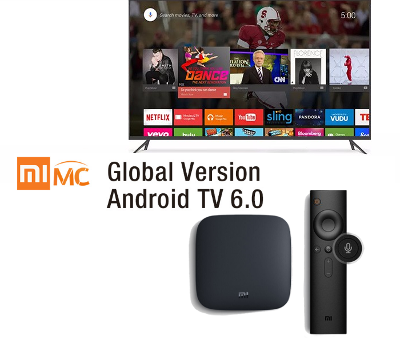
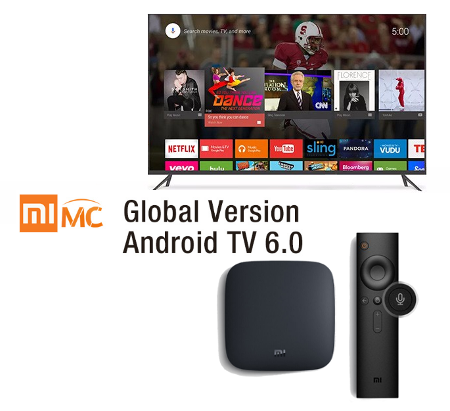
added text, images to tv-box.html

diff --git a/tv-box.html b/tv-box.html
@@ -1,7 +1,7 @@
 <!doctype html>
 <html>
 <head>
-    <title>Junsun7" - видеорегистратор</title>
+    <title>TV приставка - Mi Box 3</title>
     <meta charset="utf-8">
     <link rel="stylesheet" href="style.css">
     <link rel="stylesheet" href="https://maxcdn.bootstrapcdn.com/bootstrap/3.3.7/css/bootstrap.min.css" integrity="sha384-BVYiiSIFeK1dGmJRAkycuHAHRg32OmUcww7on3RYdg4Va+PmSTsz/K68vbdEjh4u" crossorigin="anonymous">
@@ -77,29 +77,30 @@
     </nav>
     <div class="container">
         <hr>
-        <a name="registrator">
+        <a name="box">
             <h1 class="anchor-hack">
-                3G Видеорегистратор Junsun 7" - Android 5.0 GPS Bluetooth
+                ТВ приставка - Xiaomi Mi Box 3
             </h1>
         </a>
         <div class="row">
             <div class="col-xs-12 col-md-5">
-                <a href="images/dvr/dvr.jpg" target="_blank">
-                    <img src="images/dvr/dvr.jpg" style="width:100%" alt="dvr">
+                <a href="images/box/start.png" target="_blank">
+                    <img src="images/box/start.png" style="width:100%" alt="start">
                 </a>
             </div>
             <div class="col-xs-12 col-md-7">
                 <p>
-                    Регистраторы под маркой Junsun на последнее время оказались самыми популярными и качественными, с множеством положительных отзывов. Хорошие технические составляющие, приемлемая цена. И если стоит вопрос о покупке видеорегистратора на Алиэксресс, то Junsun7"
-                    3G Android 5.0 - один из лучших и первый кандидат на ваше внимание.
+                    Благодаря системе андроид тв, смарт приставка может подключаться к You Tube, Google Play Movies, Ivi, Netflix и т. д., может
+                    устанавливать приложения Google Play. Музыка, игры, ваши фотографии - все возможно. Доступно большинство функций смартфона или
+                    компьютера, но на большом экране телевизора
                 </p>
                 <div class="container-fluid">
                     <div class="row">
                         <div class="col-md-6">
-                            <h3>Цена: 6 610,53 - 7 244,71 руб./шт.*</h3>
+                            <h3>Цена: 4 287,27 - 4 532,29 руб./шт.*</h3>
                         </div>
                         <div class="col-md-6">
-                            <a href="http://ali.pub/1eu3ad" rel="nofollow" style="margin-left: 1em; margin-right: 1em;" target="_blank">
+                            <a href="http://ali.pub/1lbw9p" rel="nofollow" style="margin-left: 1em; margin-right: 1em;" target="_blank">
                                 <img src="images/button_buy.png">
                             </a>
                         </div>
@@ -116,223 +117,143 @@
                     <tbody>
                         <tr>
                             <td>Производитель:</td>
-                            <td>Junsun</td>
+                            <td>Xiaomi</td>
+                        <tr>
+                            <td>Модель:</td>
+                            <td>Xiaomi Mi Box 3</td>
                         </tr>
                         <tr>
-                            <td>Тип изделия:</td>
-                            <td>Автомобильный видеорегистратор</td>
+                            <td>Дистанционное управление:</td>
+                            <td>Bluetooth-пульт с микрофоном</td>
                         </tr>
                         <tr>
-                            <td>Язык меню:</td>
-                            <td>Русский, Турецкий, Испанский, Французский ...</td>
+                            <td>OS:</td>
+                            <td>Google Android TV 6.0</td>
                         </tr>
                         <tr>
-                            <td>Аккумулятор:</td>
-                            <td>встроенный</td>
+                            <td>RAM:</td>
+                            <td>Original 2GB DDR3</td>
                         </tr>
                         <tr>
-                            <td>Особенности:</td>
-                            <td>SD/MMC, В реальном времени видеонаблюдение...</td>
+                            <td>ROM:</td>
+                            <td>8GB eMMC Flash</td>
                         </tr>
                         <tr>
-                            <td>Количество линз:</td>
-                            <td>2</td>
+                            <td>Процессор:</td>
+                            <td>ARM Cortex A53 up to 2GHz Quad-core 64-bits</td>
                         </tr>
                         <tr>
-                            <td>Формат видео:</td>
-                            <td>MPEG-4</td>
+                            <td>Графика:</td>
+                            <td>Penta-core ARM Mali-450</td>
                         </tr>
                         <tr>
-                            <td>Соотношение сторон экрана:</td>
-                            <td>16:9</td>
+                            <td>HDR:</td>
+                            <td>4K</td>
                         </tr>
                         <tr>
-                            <td><span>Макс внешней памяти:</span></td>
-                            <td>32GB</td>
+                            <td>System Upgrade:</td>
+                            <td>да</td>
                         </tr>
                         <tr>
-                            <td><span>Кадров в секунду:</span></td>
-                            <td>30</td>
+                            <td>Software Support:</td>
+                            <td>OTA update ,Youtube , Kodi , Hulu , Netflix etc</td>
                         </tr>
                         <tr>
-                            <td><span>Сенсорный экран:</span></td>
-                            <td>Да</td>
+                            <td>Google cast:</td>
+                            <td>да</td>
                         </tr>
                         <tr>
-                            <td><span>Угол обзора:</span></td>
-                            <td>160°</td>
+                            <td>Multi Language:</td>
+                            <td>да</td>
                         </tr>
                         <tr>
-                            <td>GPS-трекер:</td>
-                            <td>Внешний</td>
-                        </tr>
-                        <tr>
-                            <td>Пиксели:</td>
-                            <td>500 мега</td>
-                        </tr>
-                        <tr>
-                            <td>Скорость чтения карты памяти:</td>
-                            <td>Class 6</td>
-                        </tr>
-                        <tr>
-                            <td>Разрешение камеры:</td>
-                            <td>1920x1080</td>
-                        </tr>
-                        <tr>
-                            <td><span>Размер дисплея:</span></td>
-                            <td>7 дюймов</td>
-                        </tr>
-                        <tr>
-                            <td>Видео-Код:</td>
-                            <td>&nbsp;AVC</td>
-                        </tr>
-                        <tr>
-                            <td>Производитель чипсета:</td>
-                            <td>MT6582</td>
-                        </tr>
-                        <tr>
-                            <td><span>GPS Navigation:</span></td>
-                            <td>Car GPS Navigation maps Permanent free upd...</td>
-                        </tr>
-                        <tr>
-                            <td>FM transmitter:</td>
-                            <td>you could synchronize the mirror dvr music to ...</td>
-                        </tr>
-                        <tr>
-                            <td><span>Dual lens:</span></td>
-                            <td>Yes,Support Dual lens recording simultaneously&nbsp;</td>
-                        </tr>
-                        <tr>
-                            <td>DVR functionality</td>
-                            <td>Full HD 1080P Video&nbsp;</td>
-                        </tr>
-                        <tr>
-                            <td>3G:</td>
-                            <td>WCDMA 850/2100</td>
-                        </tr>
-                        <tr>
-                            <td>Операционная система:</td>
-                            <td>Android 5.0 Lollipop systems</td>
-                        </tr>
-                        <tr>
-                            <td>Chips:</td>
-                            <td>MTK6582 Quad core</td>
-                        </tr>
-                        <tr>
-                            <td>RAM / ROM:</td>
-                            <td>RAM 1GB / ROM 16GB (System will occupy 3GB)</td>
-                        </tr>
-                        <tr>
-                            <td>Touch screen:</td>
-                            <td>7"Capacitive Touch screen 1280*480</td>
-                        </tr>
-                        <tr>
-                            <td>Imaging Sensor:</td>
-                            <td>After The Loading Machine Integrated</td>
+                            <td>Упаковка:</td>
+                            <td>да</td>
                         </tr>
                     </tbody>
                 </table>
-                <h2>Размеры dvr и что где находится</h2>
-                <img src="images/dvr/size.jpg" class="center" style="width:80%" alt="size">
-                <h2>А теперь рассмотрим особенности Junsun 7" в картинках</h2>
+                <h2>Рассмотрим всё</h2>
+                <p>
+                    Приставка Xiaomi Mi Box 3 работает под управлением чипсета AMlogic S905: 64-битный 4-ядерный процессор
+                    Cortex-A53 с частотой 2 ГГц, 28 нм, графика Mali-450. Работает быстро, плавно, никаких задержек, что очень
+                    радует. По оценкам и по количеству покупок - это лучшая тв приставка для комфортного просмотра видеоконтента
+                    через интернет
+                </p>
+                <img src="images/box/details.jpg" class="center" style="width:80%" alt="details">
                 <h3>
-                    <span class="my_span">3G-серфинг. Сеть в любое время и в любом месте</span>
+                    <span class="my_span">Внешний вид</span>
                 </h3>
                 <p>
-                    Поддержка сети 2G GSM (1900/1800/850/900); 3G WCDMA B1 (2100)/B5 (850). Просто вставьте сим-карту
+                    Обтекаемая форма со сглаженным углами, из полуматового пластика.  На нижней стороне небольшой
+                    прорезиненный пьедестал, что обеспечивает хорошую устойчивость на поверхности. Порты и разъемы
+                    сзади: питание, USB, HDMI, Audio. Впереди - индикатор работы тв бокса.
                 </p>
-                <img src="images/dvr/3G.jpg" class="center" style="width:80%" alt="3G">
-                <h3>
-                    <span class="my_span">Full HD 1080P видео</span>
-                </h3>
+                <img src="images/box/interface.jpg" class="center" style="width:80%" alt="interface">
                 <p>
-                    Более высокое качество изображения поможет при необходимости уточнить важные детали, номерные знаки, дорожные особенности, которые в итоге помогут доказать вашу невиновность
-                </p>
-                <img src="images/dvr/video.jpg" class="center" style="width:80%" alt="video">
-                <h3>
-                    <span class="my_span">Запись с двух объективов. Сплит экран</span>
-                </h3>
-                <p>
-                    Автомобильный видеорегистратор имеет две камеры и записывает видео с двух разных углов. Такой дисплей называют - сплит или разделенный
-                </p>
-                <img src="images/dvr/split-screen.jpg" class="center" style="width:80%" alt="split-screen">
-                <h3>
-                    <span class="my_span">Камера заднего вида</span>
-                </h3>
-                <p>
-                    Когда автомобиль делает задний ход, DVR автоматически переключается на камеру заднего вида, с изображением линии парковки
-                </p>
-                <img src="images/dvr/rear-view-camera.jpg" class="center" style="width:80%" alt="rear-view-camera">
-
-                <img src="images/dvr/rear-view-camera2.jpg" class="center" style="width:80%" alt="rear-view-camera2">
-                <h3>
-                    <span class="my_span">GPS-навигация</span>
-                </h3>
-                <p>
-                    GPS-навигация работает быстро и плавно благодаря наличию GPS антенны и 3G функции сети
-                </p>
-                <img src="images/dvr/GPS.jpg" class="center" style="width:80%" alt="GPS">
-                <p>
-                    <b>Подробные карты с бесплатными обновлениями</b><br> Красивые 3D ориентиры зданий, парков, гор помогут вам найти правильный путь в незнакомой местности. Вождение с Sygic GPS навигацией будет удобным и комфортным
-                </p>
-                <p>
-                    <b>Точное расстояние</b> до каждого маневра будет направлять вас к месту назначения. Если вы пропустите нужный поворот, будет произведен перерасчет и система поставит вас на верный путь
-                </p>
-                <p>
-                    <b>Легкая ориентация в сложных развязках</b><br> Junsun GPS-навигация использует яркие стрелки показывая правильные переходы, чтобы легко ориентироваться в сложных развязках
-                </p>
-                <p>
-                    <b>Подробная информация всегда на виду</b><br> Карта все время находится на экране, дополнительная информация появляется рядом. То что находится по ходу маршрута: АЗС, больницы и т.д.
-                </p>
-                <p>
-                    <b>Про установку карты</b><br> Поддержка Европа/Северная Америка/Южная Америка/Азия/Ближний Восток (карта будет установлена согласно вашему адресу)
-                </p>
-                <p>
-                    <i>Примечание.</i> Если вы хотите обновить карту, пожалуйста, свяжитесь с нами, мы загрузим "Drop box". Не загружайте в других местах, это может повредить оригинальную карту. Обновление: один раз в год
+                    В комплекте есть Bluetooth-пульт с микрофоном, поэтому приставкой можно управлять голосом.
+                    А так же использовать в качестве джойстика в играх.
                 </p>
                 <h3>
-                    <span class="my_span">7&#34 сенсорный экран</span>
+                    <span class="my_span">Пульт дистанционного управления с поддержкой Bluetooth и голосовым поиском</span>
+                </h3>
+                <div class="row">
+                    <div class="col-xs-12 col-md-6">
+                        <p>
+                            <ul>
+                                <li>Слева наверху - кнопка включение/выключение</li>
+                                <li>Ниже - круговой джойстик с 4 кнопками и центральной -"OK"</li>
+                                <li>Кнопка стрелка влево -  "назад"</li>
+                                <li>Круг - "домой"</li>
+                                <li>Голосовой ввод</li>
+                                <li>Регулировка громкости</li>
+                                <li>На верхнем торце - микрофон</li>
+                            </ul>
+                        </p>
+                    </div>
+                    <div class="col-xs-12 col-md-6">
+                        <img src="images/box/remote-controller.jpg" class="center" style="width:80%" alt="remote-controller">
+                    </div>
+                </div>
+                <h3>
+                    <span class="my_span">Разнообразие приложений</span>
                 </h3>
                 <p>
-                    Экран идеально подходит для просмотра HD фильмов, веб-страниц, подробно можно рассмотреть карты, графики. Даже можно играть в игры
+                    С воспроизведением видео все в порядке, Xiaomi Mi Box 3 проигрывает почти все форматы и кодеки,
+                    но для этого все равно придется установить видеопроигрыватель (по умолчанию тв приставка не оборудована плеером).
+                    Отлично идут ролики до 4К при 60 FPS и от MKV до ISO, H264/H265, поддерживается HDR, звук Dolby Digital
+                    Plus и DTS. ТВ бокс может выступать в роли Google Cast.
                 </p>
-                <img src="images/dvr/touch-screen.jpg" class="center" style="width:80%" alt="touch-screen">
-                <h3>
-                    <span class="my_span">Android 5.0 системы, Quad Core CPU</span>
-                </h3>
                 <p>
-                    Процессор с высокой производительностью MT6582 Quad core 1.3 ГГЦ и Android 5.0 Lollipop (Леденец) позволяют автомобильному видеорегистратору работать более быстро и плавно по сравнению с Android 4.4
+                    Качество приема сигнала Wi-Fi уверенное и стабильное, без зависаний
                 </p>
-                <img src="images/dvr/android.jpg" class="center" style="width:80%" alt="android">
+                <img src="images/box/apps.jpg" class="center" style="width:80%" alt="apps">
                 <h3>
-                    <span class="my_span">Bluetooth громкой связи</span>
+                    <span class="my_span">Большой выбор игр для всей семьи</span>
                 </h3>
+                <img src="images/box/games.jpg" class="center" style="width:80%" alt="games">
+                <img src="images/box/screen.jpg" class="center" style="width:80%" alt="screen">
                 <p>
-                    Благодаря Bluetooth hand-free, после спаривания через Bluetooth dvr и смартфона, вы можете сами звонить и принимать звонки прямо с зеркала dvr, у которого имеется микрофон и динамик
+                    Телевизор, который вас слушает и выполняет ваши приказания! И чтобы вы не сказали,
+                    используя Bluetooth-пульт с микрофоном, он все найдет и покажет. Прогноз погоды,
+                    последние новости в мире, а может какой-то кулинарный рецепт, боевик или мелодраму - всё,
+                    что имеется на бескрайних просторах интернета.
                 </p>
-                <img src="images/dvr/bluetooth.jpg" class="center" style="width:80%" alt="bluetooth">
-                <h3>
-                    <span class="my_span">Функция FM-передатчик</span>
-                </h3>
                 <p>
-                    Хотите слушат�� музыку в дороге? Благодаря наличию функции FM передачи, вы можете легко синхронизировать dvr зеркало с автомобильными аудиосистемами
+                    Вам не напоминает это сказку А.С. Пушкина "О мертвой царевне и семи богатырях"? Там
+                    было зеркало, говорящее чистую правду, почти как смарт приставка от компании Xiaomi
                 </p>
-                <img src="images/dvr/radio.jpg" class="center" style="width:80%" alt="radio">
+                <img src="images/box/last.jpg" class="center" style="width:80%" alt="last">
                 <h3>
-                    <span class="my_span">Камера заднего вида. Способ установки</span>
+                    <span class="my_span">Посылка</span>
                 </h3>
-                <img src="images/dvr/car.jpg" class="center" style="width:80%" alt="car">
-
-                <img src="images/dvr/view.jpg" class="center" style="width:80%" alt="view">
-                <h3>
-                    <span class="my_span">Посмотрим еще раз на Зеркало заднего вида, оно же - Автомобильный видеорегистратор</span>
-                </h3>
-                <img src="images/dvr/front-back.jpg" class="center" style="width:80%" alt="front-back">
-                <h3>
-                    <span class="my_span">Что в посылке?</span>
-                </h3>
-                <img src="images/dvr/package.jpg" class="center" style="width:80%" alt="package">
-
+                <ol>
+                    <li>Приставка Xiaomi Mi Box 3</li>
+                    <li>Bluetooth-пульт с микрофоном</li>
+                    <li>HDMI-кабель</li>
+                    <li>Блок питания</li>
+                    <li>Инструкция</li>
+                </ol>
+                <img src="images/box/package.png" class="center" style="width:80%" alt="pacdage">
                 <h3>
                     <span class="my_span">Отзывы покупателей</span>
                 </h3>

diff --git a/style.css b/style.css
@@ -121,3 +121,4 @@
      top: 30%;
      z-index: 1000;
  }
+
